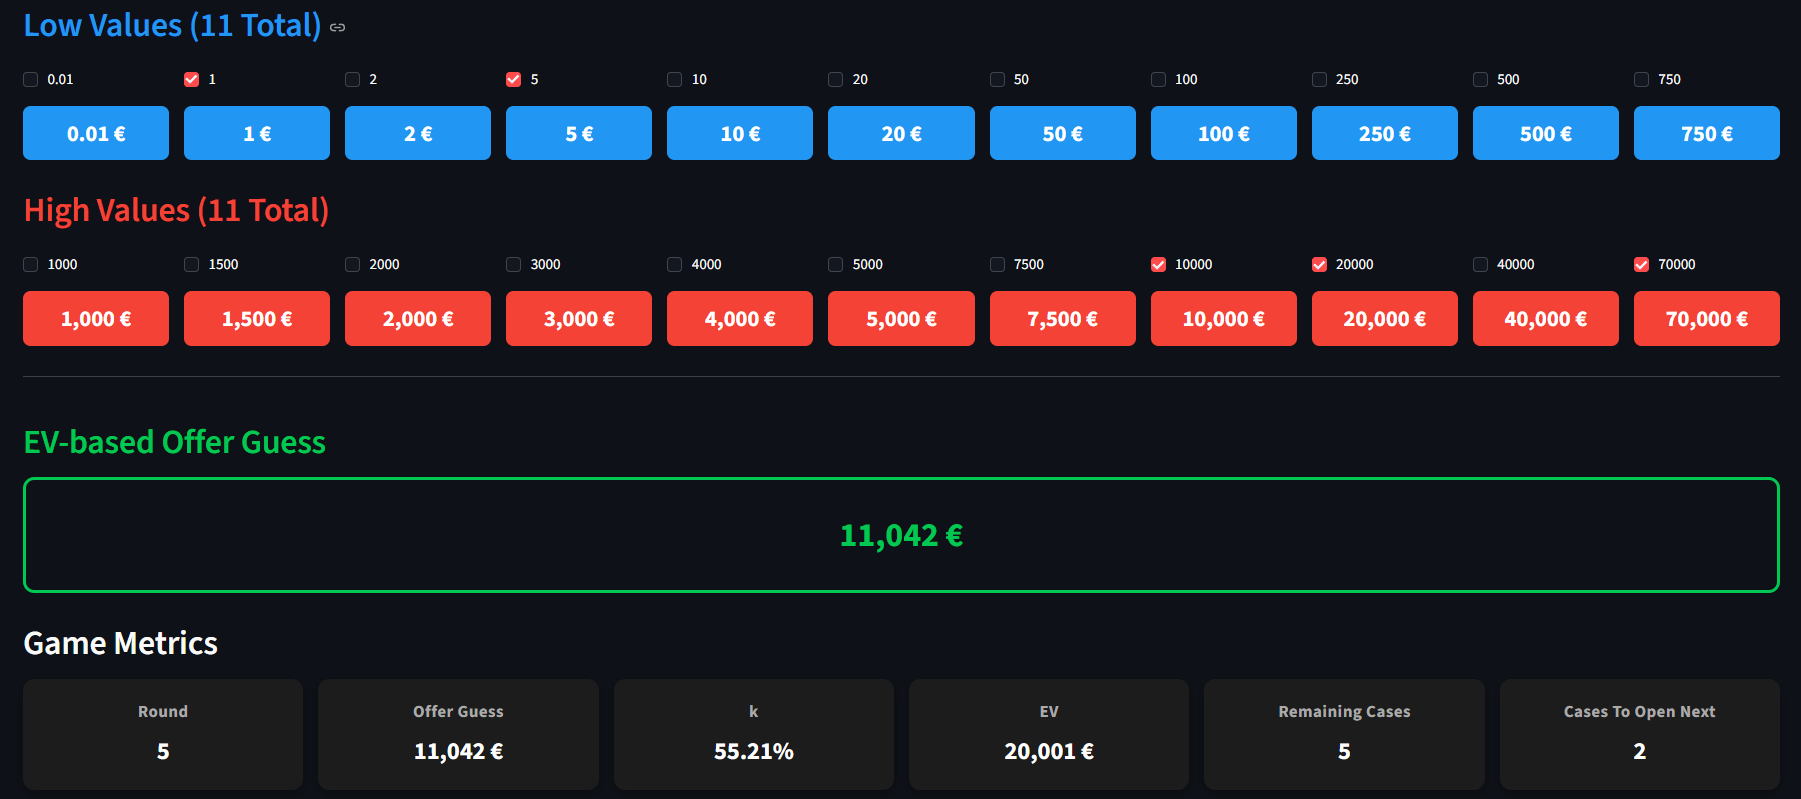
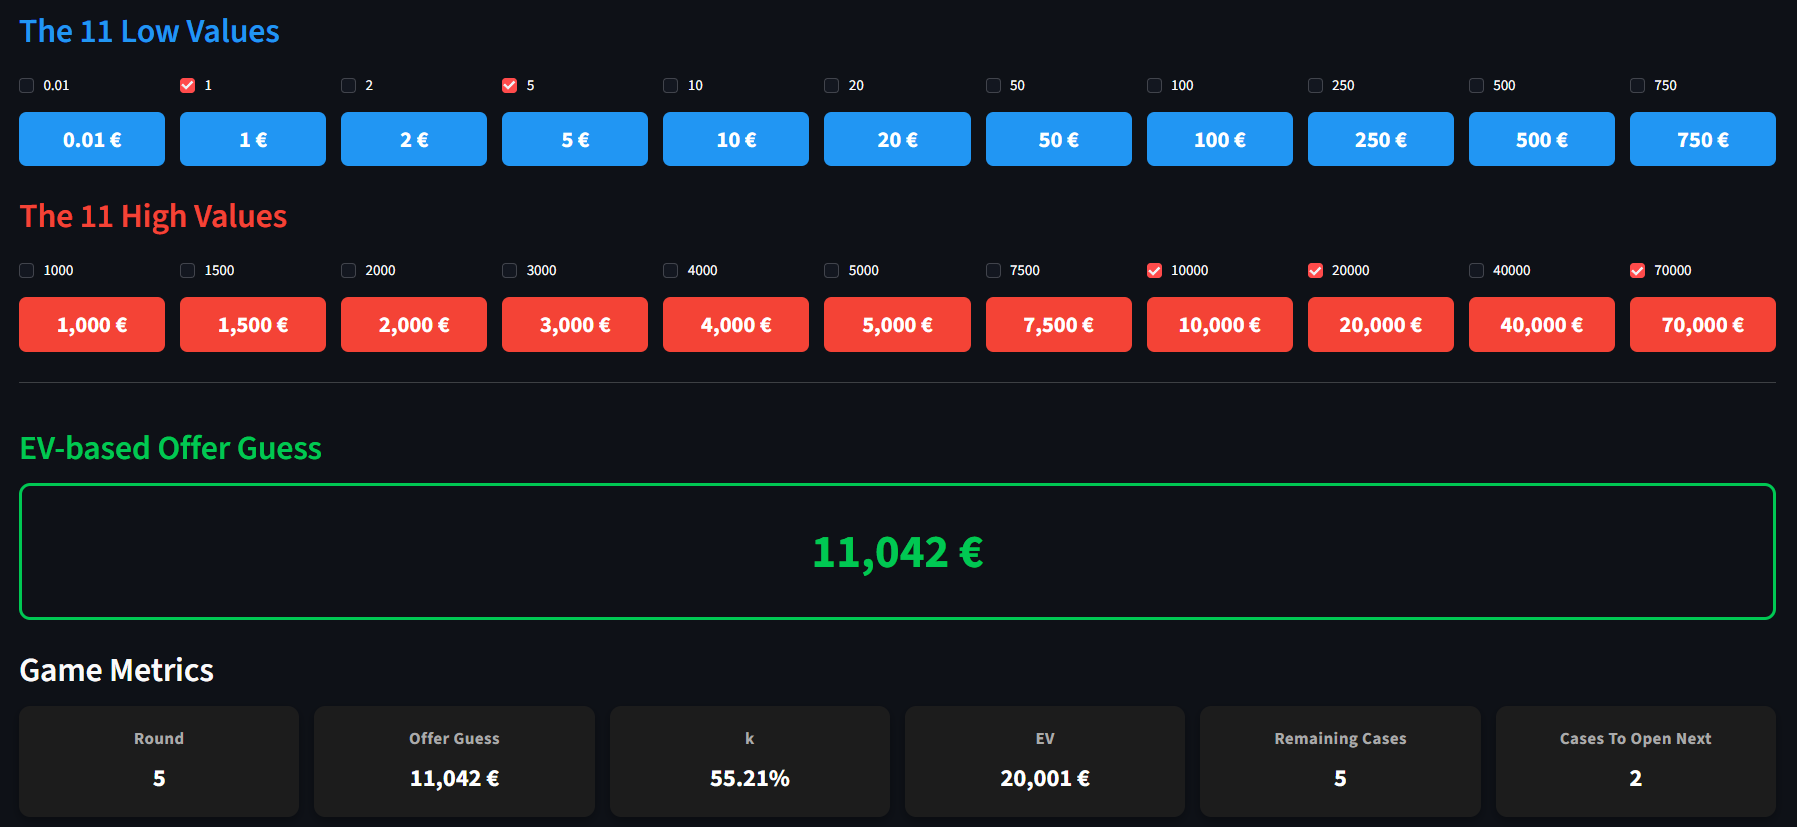
Fixes in pyproject.toml + Better Visualizations

diff --git a/src/deal/app/display.py b/src/deal/app/display.py
@@ -13,7 +13,7 @@ def display_streamlit_css_basics():
     """
     This function deals with displaying Streamlit and CSS basics
     """
-    st.set_page_config(page_title="Deal Game Dashboard", page_icon="💼", layout="wide")
+    st.set_page_config(page_title="Deal Game: Banker Offer Simulation", page_icon="💼", layout="wide")
     st.markdown("""
     <style>
         /* 1. Low-value blue checkboxes */
@@ -39,7 +39,8 @@ def display_values_grid(LOW_VALUES, HIGH_VALUES):
     # ------------------------------------------
     # ---- HTML row 1 for LOW_VALUES (Blue) ----
     # ------------------------------------------
-    st.markdown("<h2 style='color: #2196F3;'>Low Values (11 Total)</h2>", unsafe_allow_html=True)
+    st.markdown("<h5>This is a Streamlit-based web server dashboard that illustrates a typical Deal game with 22 cases and simulates the banker's offer.</h5>", unsafe_allow_html=True)
+    st.markdown("<h2 style='color: #2196F3;'>The 11 Low Values</h2>", unsafe_allow_html=True)
     selected = []
     cols_low = st.columns(len(LOW_VALUES))
     for i, value in enumerate(LOW_VALUES):
@@ -67,7 +68,7 @@ def display_values_grid(LOW_VALUES, HIGH_VALUES):
     # ------------------------------------------
     # ---- HTML row 2 for HIGH_VALUES (Red) ----
     # ------------------------------------------
-    st.markdown("<h2 style='color: #F44336; margin-top:1rem;'>High Values (11 Total)</h2>", unsafe_allow_html=True)
+    st.markdown("<h2 style='color: #F44336; margin-top:1rem;'>The 11 High Values</h2>", unsafe_allow_html=True)
     cols_high = st.columns(len(HIGH_VALUES))
     for i, value in enumerate(HIGH_VALUES):
         with cols_high[i]:
@@ -111,7 +112,7 @@ def display_offer_and_metrics(result):
             border: 4px solid #00C853;
             color: #00C853;
             padding: 30px;
-            font-size: 36px;
+            font-size: 50px;
             font-weight:700;
             text-align: center;
             border-radius: 12px;">

diff --git a/README.md b/README.md
@@ -57,9 +57,15 @@ The second diagram should look like this:
 This function creates a simple web server under the default Streamlit port 8501, by running the command `streamlit run`. We had better provide the full path of the file rather than the module path. So, in order to experiment with the Deal Game Dashboard, just run:
 
 ```
+streamlit run src/deal/app/main.py
+```
+
+in Linux, or:
+
+```
 streamlit run .\src\deal\app\main.py
 ```
 
-By checking and unchecking the case values that are still in the game, a banker's offer that is represented as `offer = k_prediction * EV` is calculated finally. In `http://localhost:8501/`, you should see something like this:
+in Windows. By checking and unchecking the case values that are still in the game, a banker's offer that is represented as `offer = k_prediction * EV` is calculated finally. In `http://localhost:8501/`, you should see something like this:
 
 ![Deal Dashboard](data/deal_dashboard.png)
